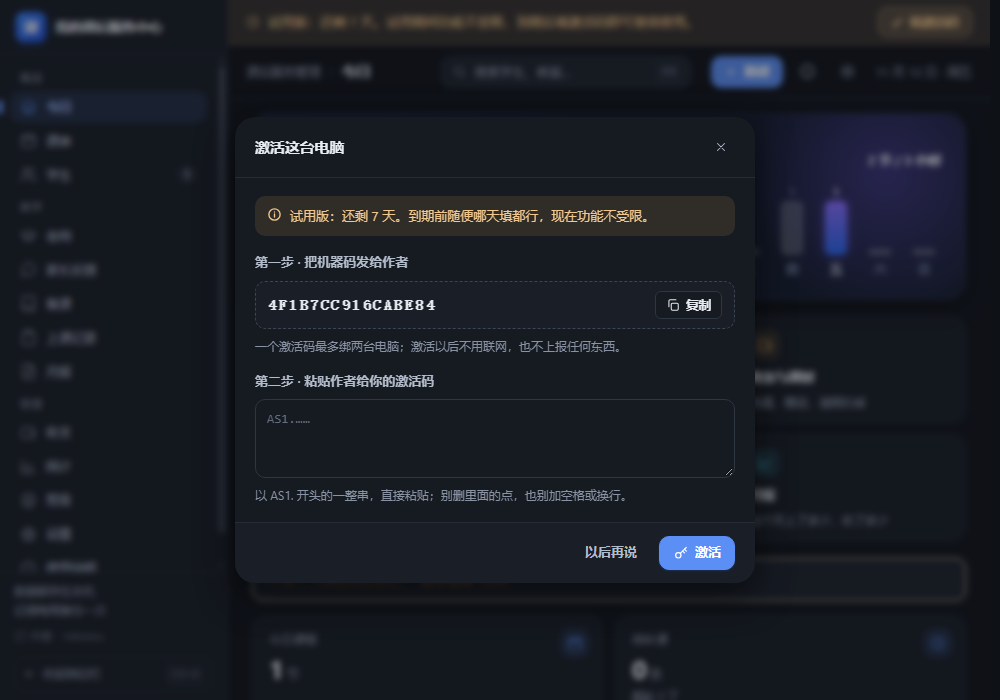
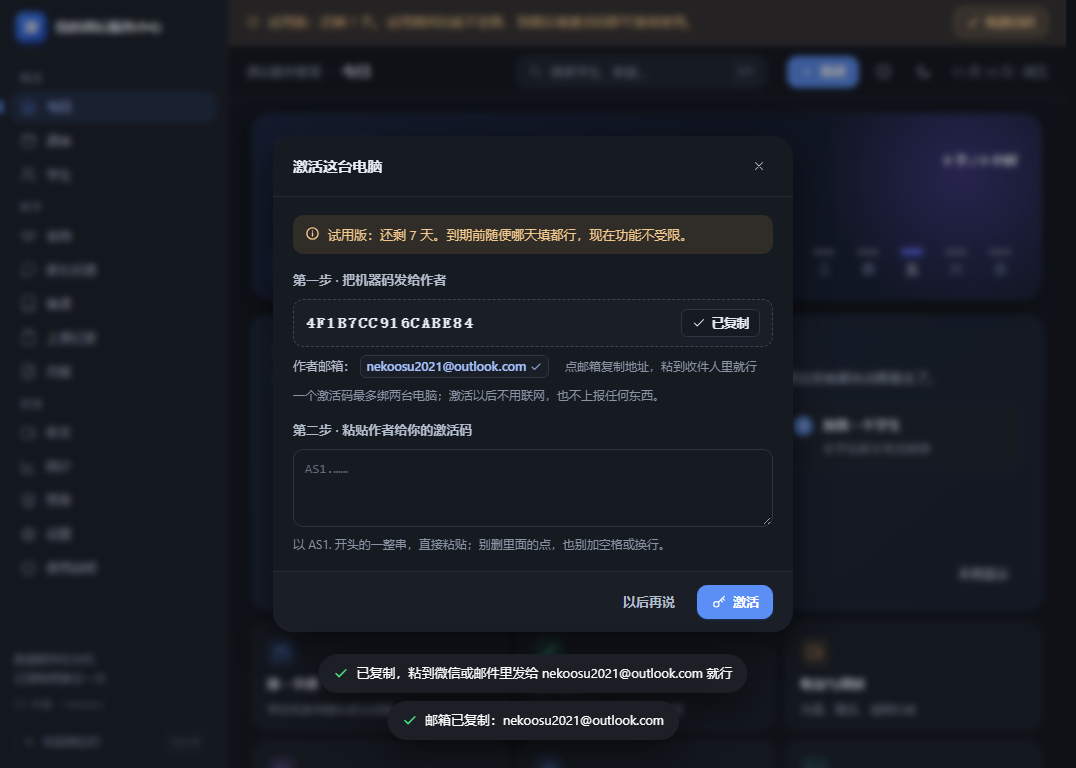
1.0.0: 激活窗邮箱改成点击复制（mailto 在桌面壳里点了没反应），机器码旁按钮升级成「复制申请内容」一次带走整段申请；修覆盖安装后仍显示旧界面（.next\server\route-cache 引用了上一版 chunk 名）

diff --git a/src/components/LicenseDialog.tsx b/src/components/LicenseDialog.tsx
@@ -36,12 +36,14 @@ export function LicenseDialog({
   const [busy, setBusy] = useState(false);
   const [err, setErr] = useState("");
   const [copied, setCopied] = useState(false);
+  const [copiedMail, setCopiedMail] = useState(false);
 
   // 每次打开都重新问一遍：可能刚在桌面壳的激活窗里激活过
   useEffect(() => {
     if (!open) return;
     setErr("");
     setCopied(false);
+    setCopiedMail(false);
     let dead = false;
     fetch("/api/license", { cache: "no-store" })
       .then((r) => r.json())
@@ -83,17 +85,33 @@ export function LicenseDialog({
   }
 
   const machine = String(state?.machine || "");
-  const mailtoHref =
-    "mailto:" +
-    AUTHOR_MAIL +
-    "?subject=" +
-    encodeURIComponent("激活码申请：课后服务管理") +
-    "&body=" +
-    encodeURIComponent(
-      (machine ? "机器码 1：" + machine.toUpperCase() + "\n" : "机器码 1：\n") +
-        "机器码 2：（第二台电脑的填这里，只有一台就留空）\n\n" +
-        "有什么想说明的写在下面这行：\n",
-    );
+  // 一次复制走完「机器码 + 第二台的占位 + 发给谁」：用户直接粘到微信 / 邮件里发出去就行
+  const mailBody = [
+    "课后服务管理 · 申请激活码",
+    "机器码：" + (machine ? machine.toUpperCase() : "（这台电脑没读到机器码）"),
+    "第二台电脑的机器码：（只有一台就留空）",
+    "发给：" + AUTHOR_MAIL,
+  ].join("\n");
+
+  async function copyMailBody() {
+    try {
+      await copyText(mailBody);
+      toast.ok("已复制，粘到微信或邮件里发给 " + AUTHOR_MAIL + " 就行");
+      setCopied(true);
+    } catch (e) {
+      toast.bad(String((e as Error)?.message || e));
+    }
+  }
+
+  async function copyMailAddr() {
+    try {
+      await copyText(AUTHOR_MAIL);
+      toast.ok("邮箱已复制：" + AUTHOR_MAIL);
+      setCopiedMail(true);
+    } catch (e) {
+      toast.bad(String((e as Error)?.message || e));
+    }
+  }
   const head =
     state?.mode === "licensed"
       ? {
@@ -136,20 +154,8 @@ export function LicenseDialog({
           {machine ? (
             <div className="license-dlg-machine">
               <code>{machine.toUpperCase()}</code>
-              <Btn
-                size="sm"
-                icon={copied ? "check" : "copy"}
-                onClick={async () => {
-                  try {
-                    await copyText(machine.toUpperCase());
-                    toast.ok("机器码已复制，发到 " + AUTHOR_MAIL + " 就行");
-                    setCopied(true);
-                  } catch (e) {
-                    toast.bad(String((e as Error)?.message || e));
-                  }
-                }}
-              >
-                {copied ? "已复制" : "复制"}
+              <Btn size="sm" icon={copied ? "check" : "copy"} onClick={copyMailBody}>
+                {copied ? "已复制" : "复制申请内容"}
               </Btn>
             </div>
           ) : (
@@ -158,8 +164,12 @@ export function LicenseDialog({
             </div>
           )}
           <div className="license-dlg-mail">
-            作者邮箱：<a href={mailtoHref}>{AUTHOR_MAIL}</a>
-            {machine ? <span className="muted">　点邮箱直接写邮件，机器码会帮你填好</span> : null}
+            作者邮箱：
+            <button type="button" className="license-dlg-mailbtn" onClick={copyMailAddr} title="点一下复制邮箱地址">
+              {AUTHOR_MAIL}
+              <Icon name={copiedMail ? "check" : "copy"} size={12} strokeWidth={2.2} />
+            </button>
+            <span className="muted">　点邮箱复制地址，粘到收件人里就行</span>
           </div>
           <div className="license-dlg-note">一个激活码最多绑两台电脑；激活以后不用联网，也不上报任何东西。</div>
         </div>

diff --git a/src/app/globals.css b/src/app/globals.css
@@ -5112,6 +5112,28 @@ html {
   text-decoration: underline;
   text-underline-offset: 2px;
 }
+/* 邮箱做成「点一下复制」：这机器多半没装邮件客户端，mailto 点了没反应比没有还糟 */
+.license-dlg-mailbtn {
+  display: inline-flex;
+  align-items: center;
+  gap: 4px;
+  padding: 1px 6px;
+  border: 1px solid var(--line-2);
+  border-radius: var(--r-1);
+  background: var(--surface-2);
+  color: var(--brand-ink);
+  font: inherit;
+  font-weight: 600;
+  cursor: pointer;
+  transition: background 0.15s, border-color 0.15s;
+}
+.license-dlg-mailbtn:hover {
+  background: var(--brand-weak);
+  border-color: var(--brand);
+}
+.license-dlg-mailbtn svg {
+  opacity: 0.75;
+}
 .license-dlg-mail .muted {
   font-size: 12px;
   color: var(--ink-3);

diff --git a/launcher/Installer.cs b/launcher/Installer.cs
@@ -131,6 +131,11 @@ namespace AfterSchoolSetup
             err = CloseRunning(dir);
             if (err != null) throw new Exception(err);
 
+            // 覆盖安装：旧的 .next（含 route-cache 预渲染快照与上一版 chunk 名）必须先清掉，
+            // 否则装完还是旧界面、控制台报 404。app\data 账本不动。
+            string oldNext = Path.Combine(dir, "app", ".next");
+            if (Directory.Exists(oldNext)) DeleteTree(oldNext);
+
             string[] files = ListFiles(src);
             long total = 0;
             for (int i = 0; i < files.Length; i++) total += new FileInfo(files[i]).Length;
@@ -164,6 +169,26 @@ namespace AfterSchoolSetup
             try { Shortcut(Path.Combine(programs, AppName + " 使用说明.lnk"), Path.Combine(dir, "使用说明.txt"), dir); }
             catch { }
             WriteUninstallEntry(exe, dir, (int)(total / 1024));
+        }
+
+        /// <summary>删一整棵目录（只读属性先复位）；只给覆盖安装清 .next 用，失败不阻断安装。</summary>
+        static void DeleteTree(string dir)
+        {
+            try
+            {
+                foreach (string f in Directory.GetFiles(dir))
+                {
+                    try { File.SetAttributes(f, FileAttributes.Normal); } catch { }
+                    try { File.Delete(f); } catch { }
+                }
+                foreach (string d in Directory.GetDirectories(dir))
+                {
+                    try { File.SetAttributes(d, FileAttributes.Directory); } catch { }
+                    DeleteTree(d);
+                }
+                Directory.Delete(dir, false);
+            }
+            catch { }
         }
 
         /// <summary>要复制的文件：除了安装器自己，其余整个目录都要（含 app\ 与三个 WebView2 dll）。</summary>

diff --git a/AGENTS.md b/AGENTS.md
@@ -906,3 +906,23 @@ $img.GetPixel(1070,400)   # 空列；修好前 #FCFCFE，修好后 #1A1F27
   2. 只勾保留 → 关闭后只剩 `app\data\app.db`，`卸载.exe` 被延时删掉。
   3. 保留 + 备份 → 目录只剩 `app.db`，桌面多一份 `课后服务管理-账本备份-yyyyMMdd-HHmm.db`（40,000 字节）。
 - **截图**：`.tmp\installer-test\un-keep-7-checked.png`（勾选态 + 清单第三行变化）、`un-keep-8-done.png`（保留路径完成页）。
+
+## 53. 激活窗里的邮箱不再走 `mailto:`，改成「点一下复制」（1.0.0 内）
+
+用户（m16227）：「激活码页面 点击邮箱发送不太合适 弹不出邮箱页面，改成复制按钮或者点击直接复制会好点吧？」
+
+- **`mailto:` 在桌面壳里不可靠**：WebView2 把 `mailto:` 交给系统默认邮件客户端，机器上没配（只开网页版邮箱 / 没装 Outlook）就**什么都不会发生**，用户以为按钮坏了。凡是「让系统去拉起别的程序」的入口，在自建壳里都要先怀疑。
+- **改法（`src\components\LicenseDialog.tsx`）**：删掉 `mailtoHref` 与 `<a href={mailtoHref}>`，两处复制：
+  - 机器码旁的主按钮从「复制」升级成「**复制申请内容**」= `mailBody`：标题「课后服务管理 · 申请激活码」+ `机器码：XXXXXXXX` + 「第二台电脑的机器码：（只有一台就留空）」+「发给：nekoosu2021@outlook.com」。用户粘一次就能发（微信/QQ/邮件都行），不用再自己拼。
+  - 邮箱本身做成 `<button className="license-dlg-mailbtn">`，点一下只复制地址，图标从 `copy` 变 `check`，`copiedMail` state 在打开弹窗时重置。
+- **样式**：`.license-dlg-mailbtn` 用 `--surface-2` 底 + `--line-2` 边 + `--brand-ink` 字，hover 换 `--brand-weak`/`--brand`；四个主题段都有这几个 token，不用新加变量。
+- **教训**：界面里任何「点了应该发生点什么」的入口，都要有一个**在本机就完成**的等价操作（复制），别把交互押在系统关联程序上。
+
+## 54. 装完还是旧界面：`.next\server\route-cache` 没清（1.0.0 内）
+
+改完激活窗（邮箱改复制按钮）后重打包、重装，装好的软件里**弹出来还是旧文案**（「复制」+「点邮箱直接写邮件」），排查过程与结论：
+
+- 现象链：装好的 `app\.next\static\chunks\app\` 里同时有 `layout-20cea9362da70d1e.js`（新）和 `layout-d73909c4c38cff9f.js`（旧）；页面 HTML 引用的却是**旧的** `layout-d73909c4c38cff9f.js`。`grep -r "layout-d73909c4c38cff9f" app\.next` 命中一堆 `.next\server\route-cache\APP_PAGE\<sha>\$*.html`。
+- 根因：`route-cache` 是 `next start` 跑过后留下的**预渲染页面快照**，里面写死了当时的 chunk 名。`next build` 不清它、`Copy-Item -Recurse -Force` 也不会删目标目录里已存在的文件 → 旧快照被原样带进 dist、带进安装目录，服务器优先吐快照，于是永远显示旧界面。
+- 两面修：`scripts\package.ps1` 第 3 步复制完 `.next` 后加 `Remove-Item -Recurse -Force $app\.next\server\route-cache`；`launcher\Installer.cs` 的 `Run()` 在复制前删掉 `dir\app\.next`（新增 `DeleteTree(string dir)`，只读属性先复位，`app\data` 账本不动）。
+- **排查口诀**：改了前端却「看不到变化」时，先比 `BUILD_ID`，再 grep 旧 chunk 名出现在哪个文件里——只要出现在 `route-cache`，就是这个坑，别去怀疑浏览器缓存。
